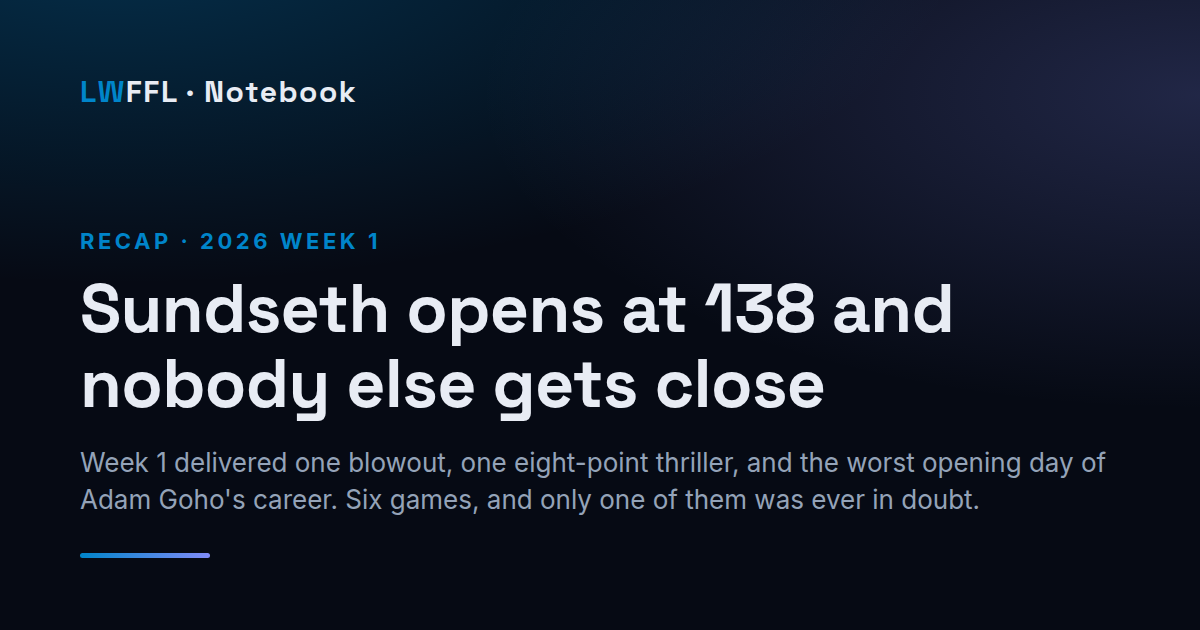
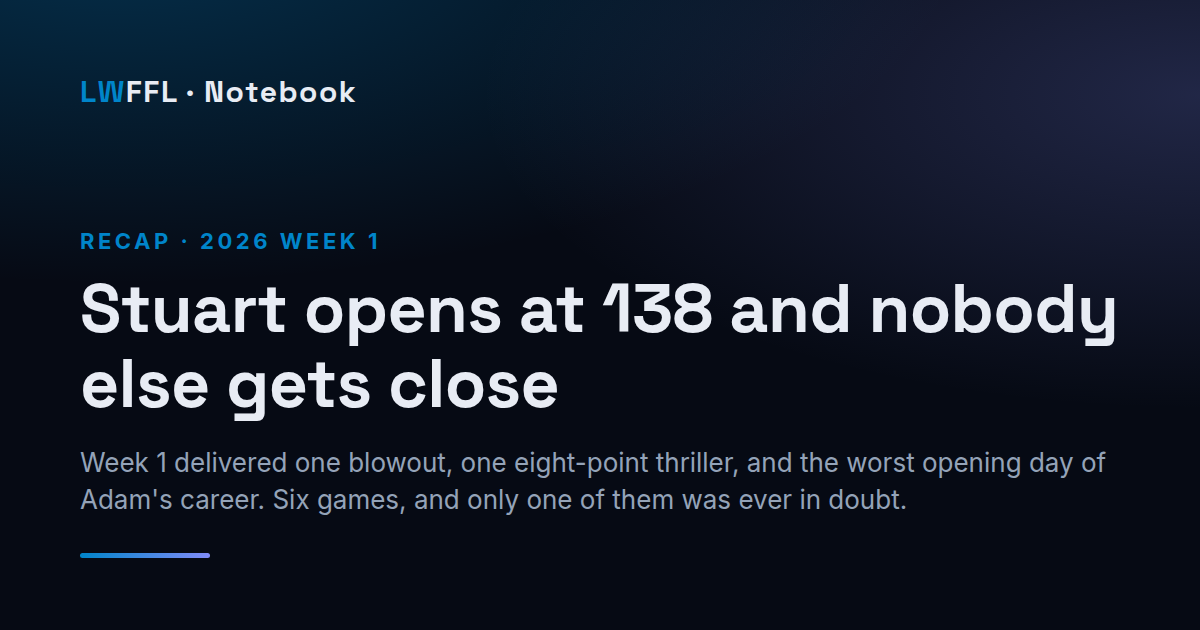
Notebook: first names only, enforced by the build
The seeded posts used full names and bare surnames — "Stuart Sundseth",
"Dengler", "Goho". Every other page on the site shows managers by first name
via LWFFL.shortName, so a post saying "Sundseth" reads as a different person
from the "Stuart" in the results table directly beneath it.

Rewrote the three posts to the site convention: first names, Ryans
disambiguated by surname initial, Tom as Thomas.

build-notebook.mjs now refuses a post that breaks it, catching both the full
name and the bare surname and naming the fix:

  data/notebook/2026-w1-recap.md: use the first names the rest of the site
  uses — "Will Shoe" -> "Will", "Tom Hos" -> "Thomas"

The roster comes from final-standings.json rather than a hardcoded list, so a
new manager is covered as soon as they appear in the data, and the display
rule mirrors LWFFL.shortName.

One line was reworded rather than substituted — "against a Dengler team that
scored 89.96" doesn't survive the swap to a first name, so it reads "Matt only
needed 89.96 to put him away" instead.

Share cards re-rendered.

Claude-Session: https://claude.ai/code/session_01FMe6u4bFLPAv1oBMJRRxgM

Changed region(s): [[0.0925, 0.4524, 0.9558, 0.573], [0.0617, 0.573, 0.7092, 0.6937], [0.1233, 0.754, 0.8325, 0.8143]]

diff --git a/n/2026-w1-recap.html b/n/2026-w1-recap.html
@@ -3,15 +3,15 @@
 <head>
   <meta charset="UTF-8" />
   <meta name="viewport" content="width=device-width, initial-scale=1.0" />
-  <title>Sundseth opens at 138 and nobody else gets close — LWFFL Notebook</title>
+  <title>Stuart opens at 138 and nobody else gets close — LWFFL Notebook</title>
 
   <!-- Discord and iMessage read these without running JS. This is the whole
        reason each post is a real file instead of a client-rendered route. -->
-  <meta name="description" content="Week 1 delivered one blowout, one eight-point thriller, and the worst opening day of Adam Goho's career. Six games, and only one of them was ever in doubt." />
+  <meta name="description" content="Week 1 delivered one blowout, one eight-point thriller, and the worst opening day of Adam's career. Six games, and only one of them was ever in doubt." />
   <meta property="og:type" content="article" />
   <meta property="og:site_name" content="LWFFL Notebook" />
-  <meta property="og:title" content="Sundseth opens at 138 and nobody else gets close" />
-  <meta property="og:description" content="Week 1 delivered one blowout, one eight-point thriller, and the worst opening day of Adam Goho's career. Six games, and only one of them was ever in doubt." />
+  <meta property="og:title" content="Stuart opens at 138 and nobody else gets close" />
+  <meta property="og:description" content="Week 1 delivered one blowout, one eight-point thriller, and the worst opening day of Adam's career. Six games, and only one of them was ever in doubt." />
   <meta property="og:url" content="https://lwffl.com/n/2026-w1-recap.html" />
   <meta property="og:image" content="https://lwffl.com/n/cards/2026-w1-recap.png" />
   <meta property="article:published_time" content="2026-09-16" />
@@ -51,30 +51,30 @@
   <article class="post" data-edition="recap" data-year="2026" data-week="1">
     <header class="post-head">
       <div class="post-kicker">Recap · Week 1</div>
-      <h1>Sundseth opens at 138 and nobody else gets close</h1>
-      <p class="post-dek">Week 1 delivered one blowout, one eight-point thriller, and the worst opening day of Adam Goho's career. Six games, and only one of them was ever in doubt.</p>
+      <h1>Stuart opens at 138 and nobody else gets close</h1>
+      <p class="post-dek">Week 1 delivered one blowout, one eight-point thriller, and the worst opening day of Adam's career. Six games, and only one of them was ever in doubt.</p>
       <div class="post-meta">
         <span>September 16, 2026</span><span class="dot">·</span>
-        <span>Cobey Culton</span>
+        <span>Cobey</span>
         
         <button type="button" class="copy-link" data-url="https://lwffl.com/n/2026-w1-recap.html">Copy link</button>
       </div>
     </header>
 
     <div class="post-body">
-<p>The first Sunday of a fantasy season is supposed to tell you nothing. This one told us at least one thing: Stuart Sundseth is not rebuilding.</p>
+<p>The first Sunday of a fantasy season is supposed to tell you nothing. This one told us at least one thing: Stuart is not rebuilding.</p>
 <h2>The big number</h2>
-<p><strong>138.30.</strong> That's what Sundseth hung on Connor Glair, who put up 104.36 — a score that would have won four of the other five games this week and still lost by 34. There is no lineup decision available to Connor that changes the outcome. Some weeks you simply run into it.</p>
+<p><strong>138.30.</strong> That's what Stuart hung on Connor, who put up 104.36 — a score that would have won four of the other five games this week and still lost by 34. There is no lineup decision available to Connor that changes the outcome. Some weeks you simply run into it.</p>
 <h2>The only real game</h2>
-<p>Tom Hos over Will Shoe by <strong>8.26</strong> was the week's lone contest, and the only matchup where either manager had a reason to watch the late window. Everything else was settled by early afternoon.</p>
+<p>Thomas over Will by <strong>8.26</strong> was the week's lone contest, and the only matchup where either manager had a reason to watch the late window. Everything else was settled by early afternoon.</p>
 <h2>Elsewhere</h2>
-<p>Cobey Culton's 123.72 was the second-best score of the week and buried Ryan Turnau by 42. Samuel Wheeler and Matt Dengler both cleared 89 against opponents who didn't reach 75.</p>
+<p>Cobey's 123.72 was the second-best score of the week and buried Ryan T. by 42. Samuel and Matt both cleared 89 against opponents who didn't reach 75.</p>
 <p>Which brings us to the other end.</p>
-<h2>Adam Goho, 63.22</h2>
-<p>The lowest opening-week score of his twelve seasons. He was never in it, and against a Dengler team that scored 89.96 — respectable, not fearsome — it didn't take much. One week is one week. But it's a hole.</p>
+<h2>Adam, 63.22</h2>
+<p>The lowest opening-week score of his twelve seasons. He was never in it, and Matt only needed 89.96 to put him away — respectable, not fearsome. One week is one week. But it's a hole.</p>
 <h2>What it means</h2>
 <p>Nothing, probably. Week 1 correlates with nothing except the standings, and the standings in September are decoration. Check back in five weeks and the league will look different.</p>
-<p>Except for Sundseth. That looked real.</p>
+<p>Except for Stuart. That looked real.</p>
     </div>
 
     <!-- filled client-side from the same JSON the rest of the site uses -->

diff --git a/n/cards/2026-w1-recap.html b/n/cards/2026-w1-recap.html
@@ -21,7 +21,7 @@
 </style></head><body><div class="in">
   <div class="brand"><span>LW</span>FFL · Notebook</div>
   <div class="kick">Recap · 2026 Week 1</div>
-  <h1>Sundseth opens at 138 and nobody else gets close</h1>
-  <div class="dek">Week 1 delivered one blowout, one eight-point thriller, and the worst opening day of Adam Goho's career. Six games, and only one of them was ever in doubt.</div>
+  <h1>Stuart opens at 138 and nobody else gets close</h1>
+  <div class="dek">Week 1 delivered one blowout, one eight-point thriller, and the worst opening day of Adam's career. Six games, and only one of them was ever in doubt.</div>
   <div class="rule"></div>
 </div></body></html>

diff --git a/n/2026-w2-preview.html b/n/2026-w2-preview.html
@@ -55,7 +55,7 @@
       <p class="post-dek">A sample preview showing the layout — the matchup strip, the ELO lines and the head-to-head history all render from the league's own data once a real week's schedule is in.</p>
       <div class="post-meta">
         <span>September 18, 2026</span><span class="dot">·</span>
-        <span>Cobey Culton</span>
+        <span>Cobey</span>
         <span class="pill" style="margin-left:6px">Sample post</span>
         <button type="button" class="copy-link" data-url="https://lwffl.com/n/2026-w2-preview.html">Copy link</button>
       </div>

diff --git a/n/2026-notebook-home.html b/n/2026-notebook-home.html
@@ -55,7 +55,7 @@
       <p class="post-dek">Previews, Sunday updates and recaps now live on the site instead of scrolling away in chat — with the numbers wired straight into the league's own box scores.</p>
       <div class="post-meta">
         <span>September 16, 2026</span><span class="dot">·</span>
-        <span>Cobey Culton</span>
+        <span>Cobey</span>
         
         <button type="button" class="copy-link" data-url="https://lwffl.com/n/2026-notebook-home.html">Copy link</button>
       </div>

diff --git a/data/notebook/2026-w1-recap.md b/data/notebook/2026-w1-recap.md
@@ -3,33 +3,33 @@ slug: 2026-w1-recap
 edition: recap
 year: 2026
 week: 1
-title: Sundseth opens at 138 and nobody else gets close
-dek: Week 1 delivered one blowout, one eight-point thriller, and the worst opening day of Adam Goho's career. Six games, and only one of them was ever in doubt.
+title: Stuart opens at 138 and nobody else gets close
+dek: Week 1 delivered one blowout, one eight-point thriller, and the worst opening day of Adam's career. Six games, and only one of them was ever in doubt.
 date: 2026-09-16
-author: Cobey Culton
+author: Cobey
 ---
-The first Sunday of a fantasy season is supposed to tell you nothing. This one told us at least one thing: Stuart Sundseth is not rebuilding.
+The first Sunday of a fantasy season is supposed to tell you nothing. This one told us at least one thing: Stuart is not rebuilding.
 
 ## The big number
 
-**138.30.** That's what Sundseth hung on Connor Glair, who put up 104.36 — a score that would have won four of the other five games this week and still lost by 34. There is no lineup decision available to Connor that changes the outcome. Some weeks you simply run into it.
+**138.30.** That's what Stuart hung on Connor, who put up 104.36 — a score that would have won four of the other five games this week and still lost by 34. There is no lineup decision available to Connor that changes the outcome. Some weeks you simply run into it.
 
 ## The only real game
 
-Tom Hos over Will Shoe by **8.26** was the week's lone contest, and the only matchup where either manager had a reason to watch the late window. Everything else was settled by early afternoon.
+Thomas over Will by **8.26** was the week's lone contest, and the only matchup where either manager had a reason to watch the late window. Everything else was settled by early afternoon.
 
 ## Elsewhere
 
-Cobey Culton's 123.72 was the second-best score of the week and buried Ryan Turnau by 42. Samuel Wheeler and Matt Dengler both cleared 89 against opponents who didn't reach 75.
+Cobey's 123.72 was the second-best score of the week and buried Ryan T. by 42. Samuel and Matt both cleared 89 against opponents who didn't reach 75.
 
 Which brings us to the other end.
 
-## Adam Goho, 63.22
+## Adam, 63.22
 
-The lowest opening-week score of his twelve seasons. He was never in it, and against a Dengler team that scored 89.96 — respectable, not fearsome — it didn't take much. One week is one week. But it's a hole.
+The lowest opening-week score of his twelve seasons. He was never in it, and Matt only needed 89.96 to put him away — respectable, not fearsome. One week is one week. But it's a hole.
 
 ## What it means
 
 Nothing, probably. Week 1 correlates with nothing except the standings, and the standings in September are decoration. Check back in five weeks and the league will look different.
 
-Except for Sundseth. That looked real.
+Except for Stuart. That looked real.

diff --git a/data/notebook/2026-w2-preview.md b/data/notebook/2026-w2-preview.md
@@ -6,7 +6,7 @@ week: 2
 title: Everybody gets a chance to explain themselves
 dek: A sample preview showing the layout — the matchup strip, the ELO lines and the head-to-head history all render from the league's own data once a real week's schedule is in.
 date: 2026-09-18
-author: Cobey Culton
+author: Cobey
 sample: true
 ---
 This is a **sample post** showing what a Thursday preview looks like on the page. The prose is placeholder; the structure is real.

diff --git a/data/notebook/2026-notebook-home.md b/data/notebook/2026-notebook-home.md
@@ -5,7 +5,7 @@ year: 2026
 title: The Notebook has a home
 dek: Previews, Sunday updates and recaps now live on the site instead of scrolling away in chat — with the numbers wired straight into the league's own box scores.
 date: 2026-09-16
-author: Cobey Culton
+author: Cobey
 pinned: true
 ---
 Every week of the Notebook has, until now, existed as a wall of text in the group chat that slid out of view by Wednesday. That stops here.
